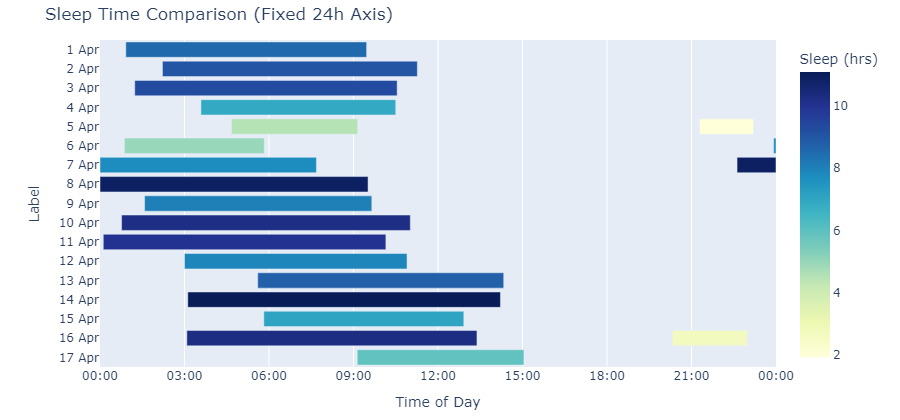
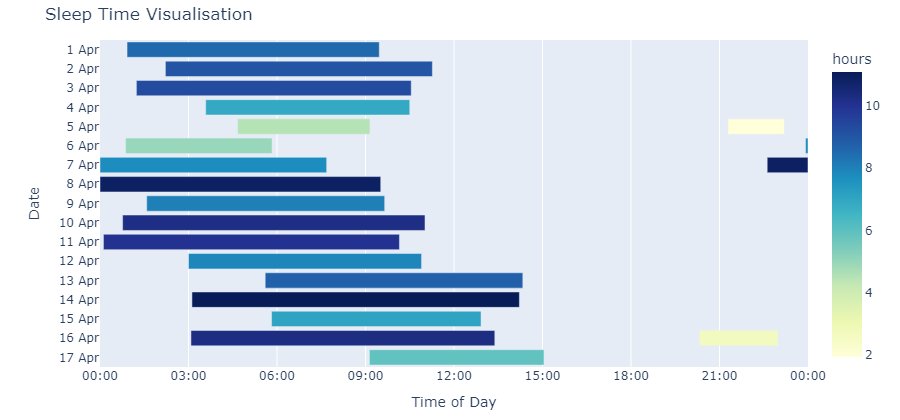
add CSS

diff --git a/sdv-electron/src/index.css b/sdv-electron/src/index.css
@@ -1,7 +1,74 @@
 body {
-  font-family: -apple-system, BlinkMacSystemFont, 'Segoe UI', Roboto, Helvetica,
-    Arial, sans-serif;
-  margin: auto;
-  max-width: 38rem;
+  font-family: "Segoe UI", sans-serif;
+  background: #f8fafc;
   padding: 2rem;
+  color: #333;
+}
+
+h2 {
+  margin-bottom: 1rem;
+  color: #0f172a;
+}
+
+form {
+  background: #fff;
+  padding: 1rem;
+  border-radius: 12px;
+  box-shadow: 0 2px 8px rgba(0, 0, 0, 0.1);
+  max-width: 500px;
+  margin-bottom: 2rem;
+}
+
+form label {
+  display: block;
+  margin-bottom: 0.5rem;
+  font-weight: 500;
+}
+
+form #date {
+  padding: 0.5rem;
+  font-size: 1rem;
+  margin: 0.3rem 0;
+  width: 120px;
+  border: 1px solid #cbd5e1;
+  border-radius: 6px;
+}
+
+form input[type="number"] {
+  padding: 0.5rem;
+  font-size: 1rem;
+  margin: 0.3rem 0;
+  width: 2.5rem;
+  border: 1px solid #cbd5e1;
+  border-radius: 6px;
+}
+
+form button {
+  margin-top: 1rem;
+  padding: 0.6rem 1.2rem;
+  font-size: 1rem;
+  border: none;
+  background-color: #0ea5e9;
+  color: white;
+  border-radius: 8px;
+  cursor: pointer;
+  margin-right: 0.5rem;
+}
+
+form button:disabled {
+  background-color: #94a3b8;
+  cursor: not-allowed;
+}
+
+#error-msg {
+  color: crimson;
+  margin-top: 0.5rem;
+  font-size: 0.9rem;
+}
+
+img#preview {
+  max-width: 100%;
+  border: 2px solid #e2e8f0;
+  border-radius: 8px;
+  box-shadow: 0 1px 8px rgba(0, 0, 0, 0.05);
 }

diff --git a/sdv-electron/src/renderer.js b/sdv-electron/src/renderer.js
@@ -1,4 +1,5 @@
 console.log("🚀 Renderer loaded");
+import "./index.css";
 
 const app = document.getElementById("app");
 
@@ -7,12 +8,12 @@ app.innerHTML = `
   <form id="sleep-form">
     <label>Date: <input type="date" id="date" required /></label><br/>
     <label>Sleep Time: 
-      <input type="number" id="sleep-hour" min="0" max="23" placeholder="HH" required /> :
-      <input type="number" id="sleep-minute" min="0" max="59" placeholder="MM" required />
+      <input type="number" id="sleep-hour" min="0" max="23" placeholder="hh" required /> :
+      <input type="number" id="sleep-minute" min="0" max="59" placeholder="mm" required />
     </label><br/>
     <label>Wake Time: 
-      <input type="number" id="wake-hour" min="0" max="23" placeholder="HH" required /> :
-      <input type="number" id="wake-minute" min="0" max="59" placeholder="MM" required />
+      <input type="number" id="wake-hour" min="0" max="23" placeholder="hh" required /> :
+      <input type="number" id="wake-minute" min="0" max="59" placeholder="mm" required />
     </label><br/>
     <button type="submit" id="enter">Enter</button>
     <button type="button" id="generate">Generate Chart</button>

diff --git a/sdv-electron/src/main.js b/sdv-electron/src/main.js
@@ -17,7 +17,6 @@ ipcMain.handle("gen-chart", (_, rows, display = 30) => {
       if (code === 0) {
         try {
           const parsed = JSON.parse(out);
-          console.log("🧪 RAW Python output:", out);
           resolve(parsed.png);
         } catch (err) {
           reject("Failed to parse sdv_cli.py output");

diff --git a/sdv-electron/python/sdv_cli.py b/sdv-electron/python/sdv_cli.py
@@ -45,20 +45,20 @@ def draw_save(_df: pd.DataFrame, _file: str, display_days: int):
         if end <= start:
             # Cross-midnight: split into two bars
             rows.append({
-                "Label": format_date(sleep.date()),
+                "Date": format_date(sleep.date()),
                 "Sleep": start,
                 "Wake": base_day.replace(hour=23, minute=59, second=59),
                 "Duration": duration
             })
             rows.append({
-                "Label": format_date(wake.date()),  # assign next day's label
+                "Date": format_date(wake.date()),  # assign next day's label
                 "Sleep": base_day.replace(hour=0, minute=0),
                 "Wake": end,
                 "Duration": duration
             })
         else:
             rows.append({
-                "Label": format_date(sleep.date()),
+                "Date": format_date(sleep.date()),
                 "Sleep": start,
                 "Wake": end,
                 "Duration": duration
@@ -70,10 +70,10 @@ def draw_save(_df: pd.DataFrame, _file: str, display_days: int):
         chart_df,
         x_start="Sleep",
         x_end="Wake",
-        y="Label",
+        y="Date",
         color="Duration",
         color_continuous_scale="YlGnBu",
-        title="Sleep Time Comparison (Fixed 24h Axis)",
+        title="Sleep Time Visualisation",
         hover_data={"Duration": True}
     )
 
@@ -90,7 +90,7 @@ def draw_save(_df: pd.DataFrame, _file: str, display_days: int):
             tickformat="%H:%M",
             title="Time of Day"
         ),
-        coloraxis_colorbar=dict(title="Sleep (hrs)")
+        coloraxis_colorbar=dict(title="hours")
     )
 
     img_bytes = pio.to_image(fig, format="png")
